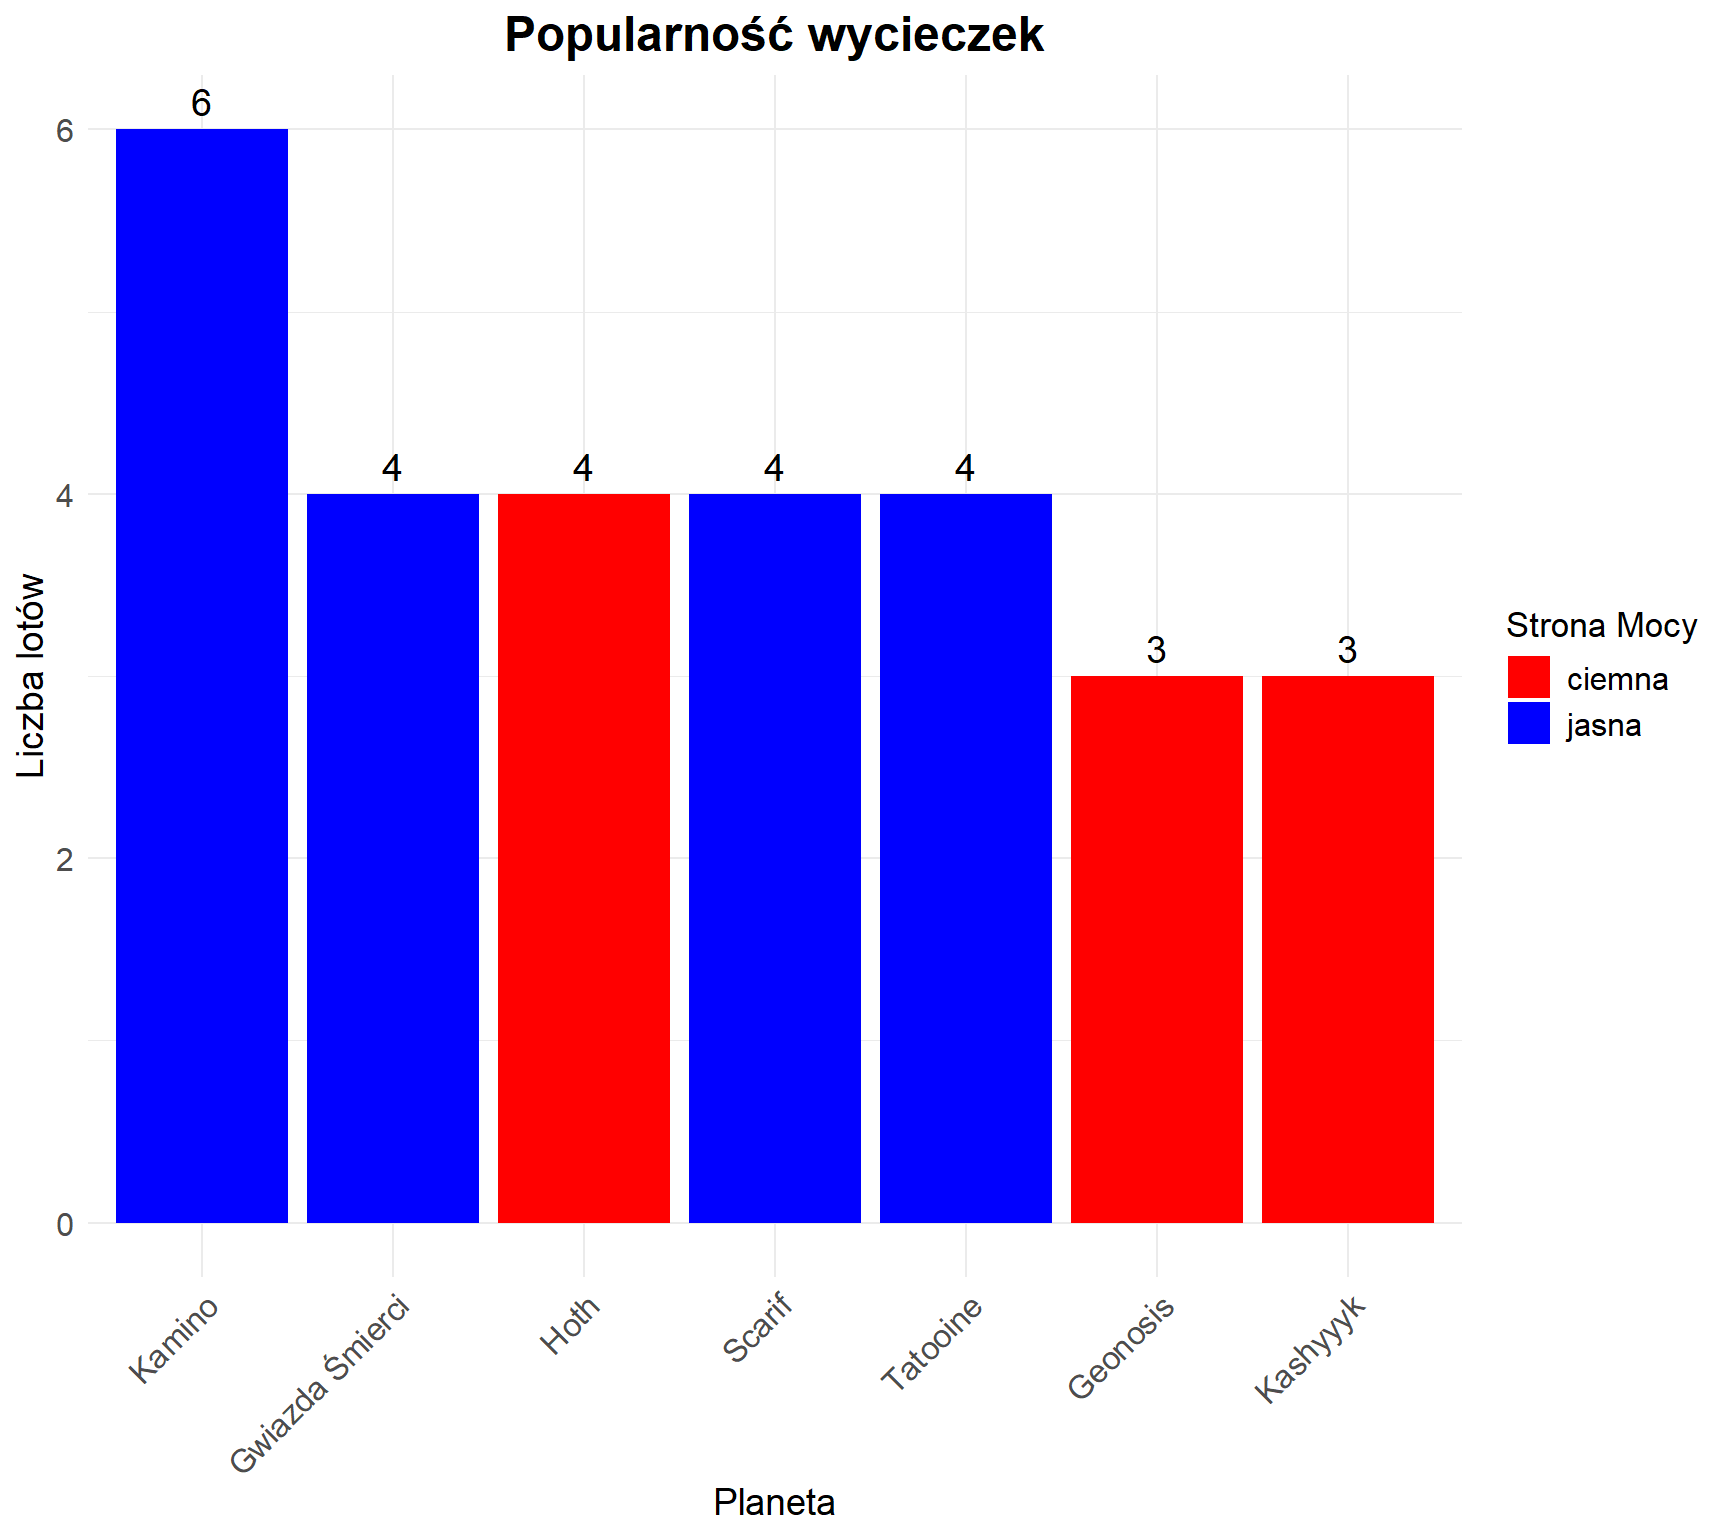
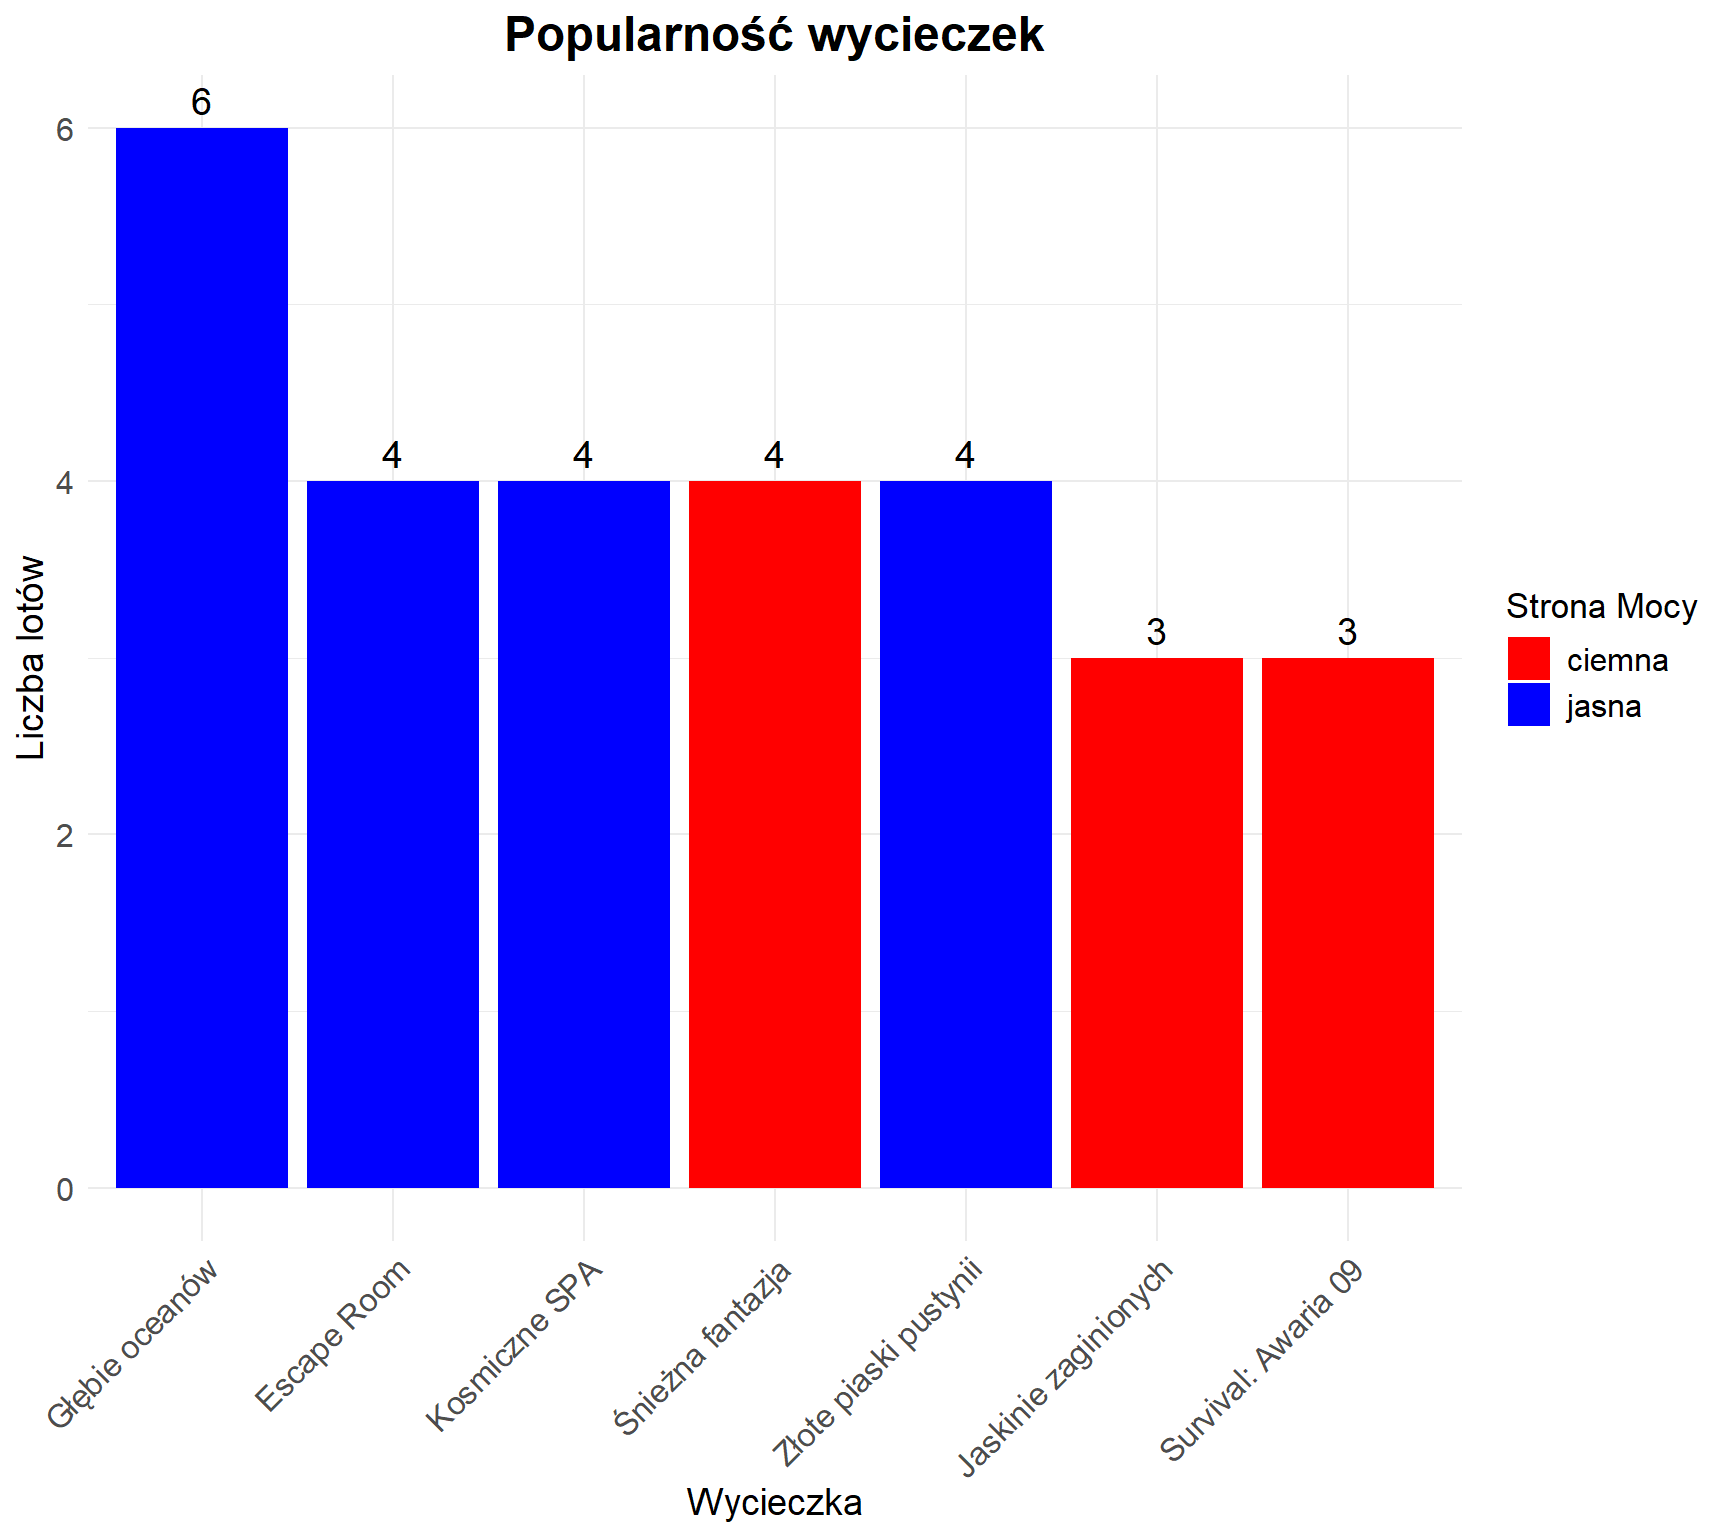
dodanie kolejnych wnioskow do pytania 1 i dodatkowego o opinie

diff --git a/Raport.html b/Raport.html
@@ -90,6 +90,7 @@ ul.task-list li input[type="checkbox"] {
 </div>
 </div>
 </div>
+<p>Łącznie zorganizowana liczba wylotów wynosi 28. Najpopularniejsza wycieczka pod względem liczby wylotów to: Głębie oceanów, z liczbą wylotów 6, natomiast zyskująca dopiero popularność okazała się: Jaskinie zaginionych, z liczbą wylotów 3.</p>
 <p>Teraz możemy zobaczyć, jak wygląda to w przypadku ilości obsłużonych podróżnych.</p>
 <div class="cell">
 <div class="cell-output-display">
@@ -100,6 +101,7 @@ ul.task-list li input[type="checkbox"] {
 </div>
 </div>
 </div>
+<p>Łącznie firma obsłużyła 200 klientów. Najpopularniejsza wycieczka pod względem liczby klientów to: Głębie oceanów, z liczbą klientów 51, natomiast zyskująca dopiero popularność okazała się: Kosmiczne SPA, gdzie zdecydowało się na nią tyle osób: 20.</p>
 <section id="bilans-zysków-i-strat-poszczególnych-rodzajów-wycieczek" class="level4">
 <h4 class="anchored" data-anchor-id="bilans-zysków-i-strat-poszczególnych-rodzajów-wycieczek">Bilans zysków i strat poszczególnych rodzajów wycieczek</h4>
 <p>Analiza bilansu zysków i strat dla różnych typów wycieczek oferowanych przez firmę stanowi kluczowy element oceny rentowności działalności. Pozwala ona nie tylko ocenić, które rodzaje wycieczek generują największe przychody, ale również które wiążą się z najwyższymi kosztami operacyjnymi, co ma bezpośredni wpływ na ostateczny zysk netto.</p>
@@ -114,6 +116,7 @@ ul.task-list li input[type="checkbox"] {
 </div>
 </div>
 </div>
+<p>Wycieczka z największym średnim kosztem organizacji to Escape Room, której koszt organizacji wynosi średnio 6.525^{4}.</p>
 <p>W celu uzyskania pełniejszego obrazu rentowności działalności firmy, przeprowadzono także analizę łącznych zysków generowanych przez wycieczki do poszczególnych planet, z uwzględnieniem liczby uczestników. W odróżnieniu od wcześniejszego zestawienia, które bazowało na średnich wartościach dla jednej wycieczki (jeden wylot), niniejsze podsumowanie uwzględnia realną skalę sprzedaży – czyli ilość podróżnych, którzy skorzystali z każdej z ofert. Takie podejście pozwala precyzyjnie określić, które kierunki nie tylko są popularne, ale również najbardziej dochodowe w ujęciu globalnym.</p>
 <div class="cell">
 <div class="cell-output-display">
@@ -171,7 +174,7 @@ Na tej podstawie obliczono zysk firmy, który wyniósł 3 659 101.</p>
 </div>
 </div>
 </div>
-<p>Klienci, którzy zdecydowali się wziąć udział w więcej niż jednym wyjeździe, najczęściej wykupowali za pierwszym razem następujące wycieczki: Escape Room, Survival: Awaria 09, Śnieżna fantazja. Najpopularniejszą wycieczką wśród nich była wycieczka o nazwie Escape Room, na którą wybrało się 9 klientów. Może to oznaczać, że zwiedzającym spodobał się klimat wycieczki, a w planie firmy na najbliższy czas należy uwzględnić organizację większej liczby wycieczek tego typu bądź wprowadzić do oferty więcej rodzajów wyjazdów w podobnym klimacie.</p>
+<p>Klienci, którzy zdecydowali się wziąć udział w więcej niż jednym wyjeździe, najczęściej wykupowali za pierwszym razem następujące wycieczki: Escape Room, Jaskinie zaginionych, Śnieżna fantazja. Najpopularniejszą wycieczką wśród nich była wycieczka o nazwie Escape Room, na którą wybrało się 10 klientów. Może to oznaczać, że zwiedzającym spodobał się klimat wycieczki, a w planie firmy na najbliższy czas należy uwzględnić organizację większej liczby wycieczek tego typu bądź wprowadzić do oferty więcej rodzajów wyjazdów w podobnym klimacie.</p>
 <div class="cell">
 <div class="cell-output-display">
 <div>
@@ -202,6 +205,27 @@ Na tej podstawie obliczono zysk firmy, który wyniósł 3 659 101.</p>
 </section>
 <section id="czy-wycieczki-którym-klienci-wystawiają-najwyższe-oceny-są-również-najchętniej-wybierane" class="level3">
 <h3 class="anchored" data-anchor-id="czy-wycieczki-którym-klienci-wystawiają-najwyższe-oceny-są-również-najchętniej-wybierane">Czy wycieczki, którym klienci wystawiają najwyższe oceny, są również najchętniej wybierane?</h3>
+<p>Oceny wystawiane przez klientów po zakończonych wycieczkach stanowią istotny element oceny jakości oferty turystycznej. Są one nie tylko subiektywnym wyrazem zadowolenia uczestników, ale również cennym źródłem informacji dla firmy, pozwalającym na identyfikację mocnych i słabych stron. Dzięki gromadzeniu ocen firma może monitorować poziom satysfakcji uczestników, identyfikować najbardziej doceniane elementy oferty (np. konkretne kierunki, przewodników, atrakcje) oraz podejmować trafne decyzje dotyczące udoskonalania wyjazdów. Wysokie oceny stanowią również wartość marketingową – mogą budować zaufanie nowych klientów i pozytywnie wpływać na wizerunek firmy. Klienci firmy Space-U mają możliwość oceny wycieczki w pięciostopiowej skali (1-5). Przyjrzyjmy się jak jakie mają odczucia.</p>
+<div class="cell">
+<div class="cell-output-display">
+<div>
+<figure class="figure">
+<p><img src="Raport_files/figure-html/unnamed-chunk-13-1.png" class="img-fluid figure-img" width="864"></p>
+</figure>
+</div>
+</div>
+</div>
+<p>Najlepiej ocenianą wycieczką jest Escape Room, z oceną 4.15. Najmniej do gustu przypadła za to wycieczka Survival: Awaria 09, gdzie ocena wyniosła 3.25.</p>
+<p>Dla porównania spójrzmy na wykres popularności, który już wcześniej widzieliśmy.</p>
+<div class="cell">
+<div class="cell-output-display">
+<div>
+<figure class="figure">
+<p><img src="Raport_files/figure-html/unnamed-chunk-14-1.png" class="img-fluid figure-img" width="864"></p>
+</figure>
+</div>
+</div>
+</div>
 </section>
 <section id="którzy-spośród-naszych-pracowników-pilot-i-przewodnik-najczęściej-latali-wspólnie-na-wycieczki" class="level3">
 <h3 class="anchored" data-anchor-id="którzy-spośród-naszych-pracowników-pilot-i-przewodnik-najczęściej-latali-wspólnie-na-wycieczki">Którzy spośród naszych pracowników (pilot i przewodnik) najczęściej latali wspólnie na wycieczki?</h3>
@@ -210,7 +234,7 @@ Na tej podstawie obliczono zysk firmy, który wyniósł 3 659 101.</p>
 <div class="cell-output-display">
 <div>
 <figure class="figure">
-<p><img src="Raport_files/figure-html/unnamed-chunk-14-1.png" class="img-fluid figure-img" width="864"></p>
+<p><img src="Raport_files/figure-html/unnamed-chunk-15-1.png" class="img-fluid figure-img" width="864"></p>
 </figure>
 </div>
 </div>
